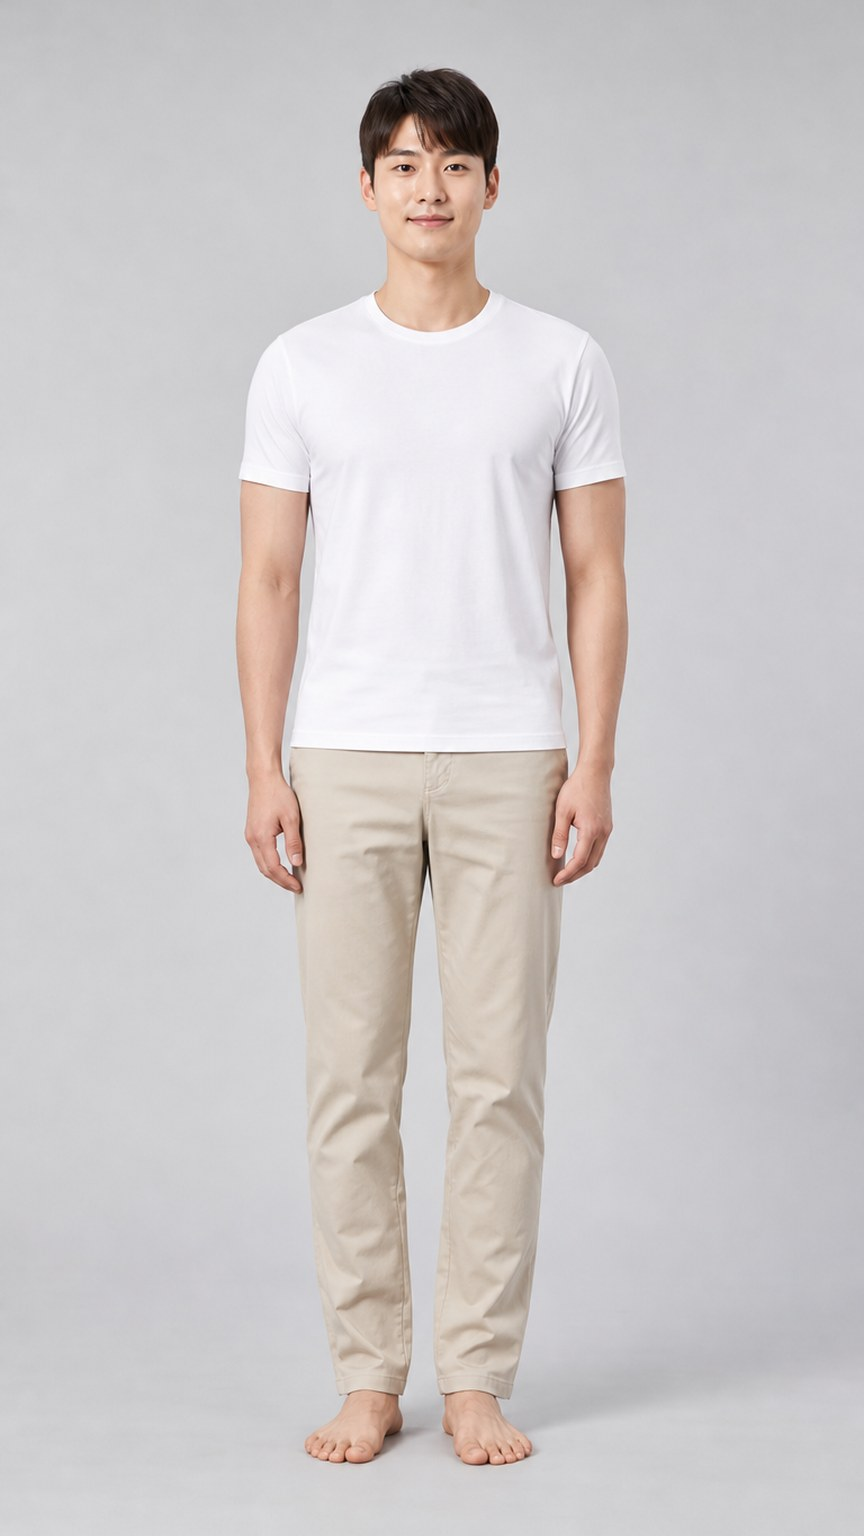
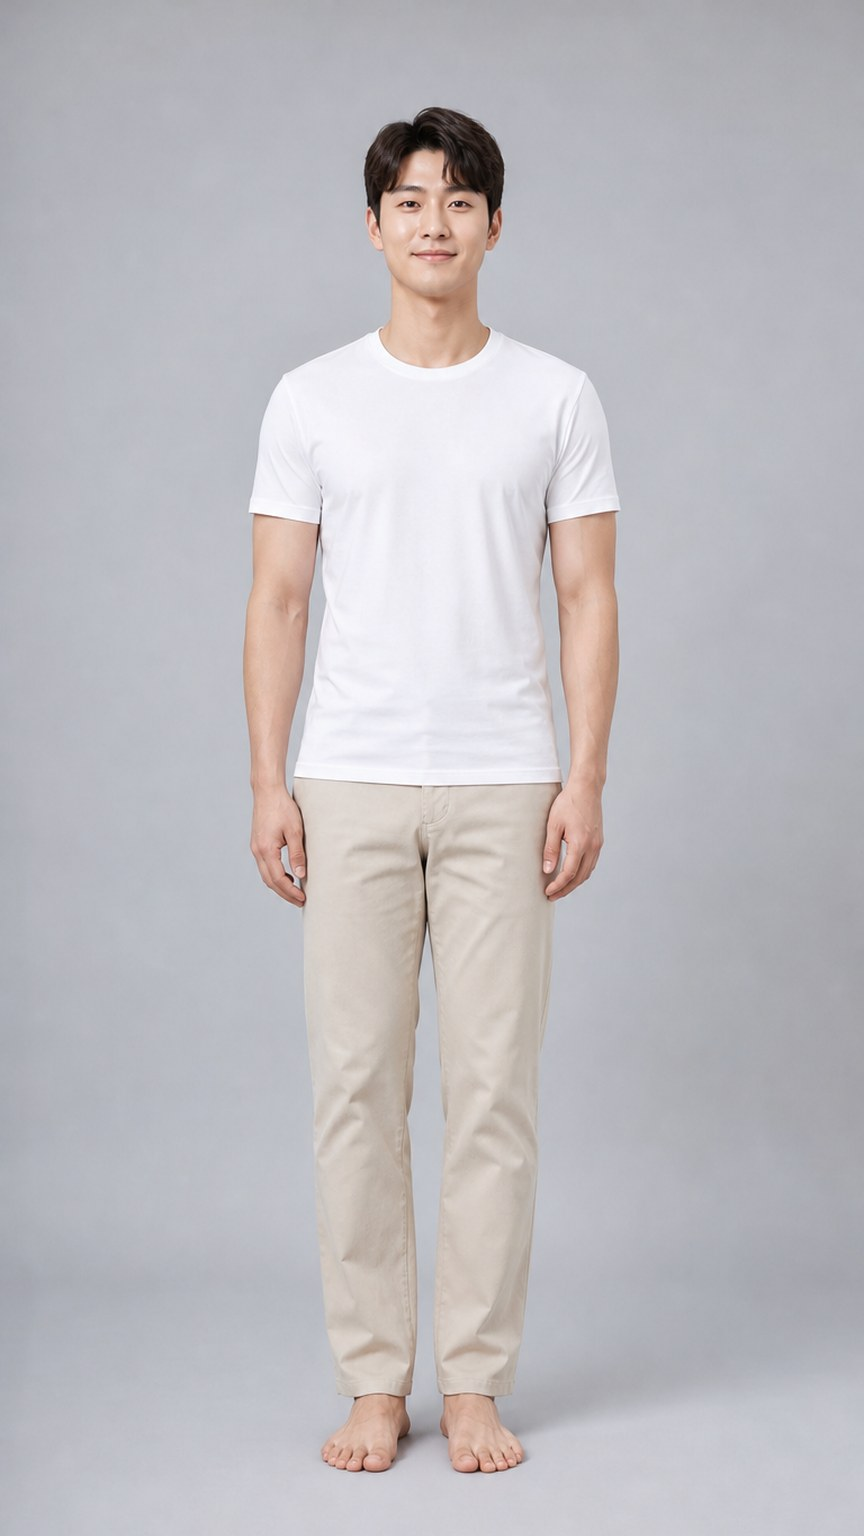
남성 기본 캐릭터를 두 번째 후보(B)로 교체
Claude-Session: https://claude.ai/code/session_016bmhdUD5PY8La8gfnWESjq

Changed region(s): [[0.0, 0.0, 1.0, 1.0], [0.8438, 0.4375, 0.875, 0.5], [0.5625, 0.3125, 0.5938, 0.3438]]

diff --git a/shorts.js b/shorts.js
@@ -556,7 +556,7 @@
     return '<path d="' + d + '" fill="' + col + '" fill-opacity="0.94" stroke="rgba(0,0,0,.35)" stroke-width="3" stroke-linejoin="round"/>';
   }
   function garmentLayer(ev) {
-    GS = isMale() ? 7.96 : 8.36;
+    GS = isMale() ? 7.78 : 8.36;
     var ky = bodyScale().ky, out = '';
     function Y(y) { return GH - (GH - y) * ky; }
     ['bottom', 'top'].forEach(function (cat) {

diff --git a/shorts.css b/shorts.css
@@ -69,4 +69,4 @@ a.btn{display:block;text-align:center;text-decoration:none;color:inherit}
 .rcap .fchip .grade,.rcap .fchip>span:last-child,.rcap .fchip>b:last-child{font-size:11px;white-space:nowrap}
 
 /* 남성 기본 캐릭터: 얼굴 위치 */
-.fig.male .face{left:50.5%;top:13.4%;width:16%;height:11.5%}
+.fig.male .face{left:50%;top:14.2%;width:16%;height:11.5%}
